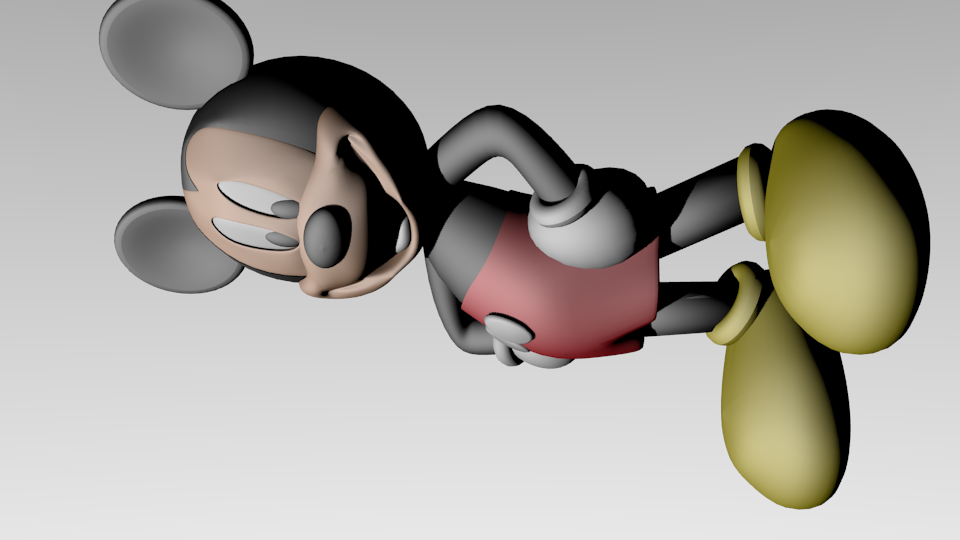
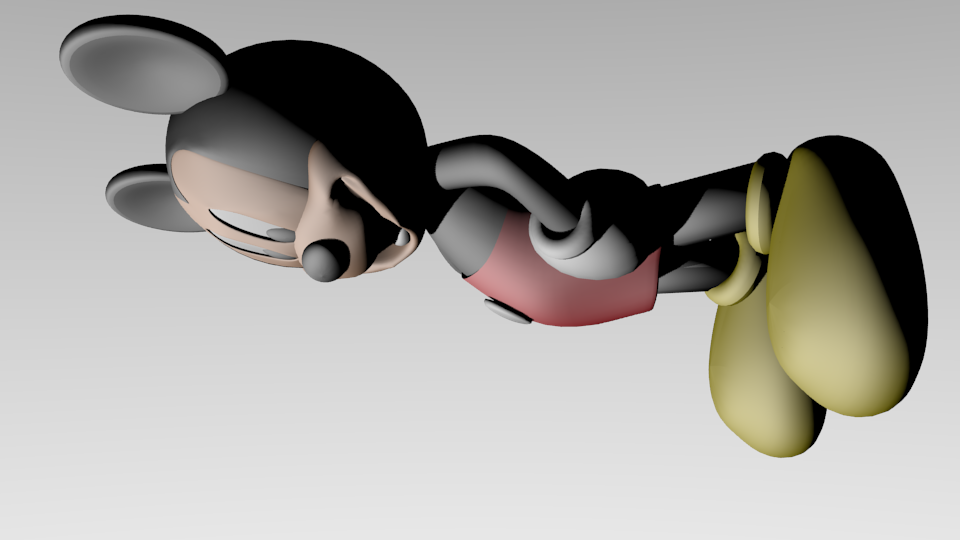
Blender content modified with a bigger angle.

Changed region(s): [[0.0625, 0.0, 0.9688, 0.9481]]

diff --git a/Blender/CreateBlenderContent.py b/Blender/CreateBlenderContent.py
@@ -7,7 +7,7 @@ cam = bpy.dataobjects['Camera']
 # Loop to create images from different perspectives.
 for counter in range(0,18):
     # Angle is calculated according to counter.
-    alpha = 3*counter
+    alpha = 5*counter
     # Radius of the circle.
     h     = -1.1
     # Coordinates for the new camera location.
